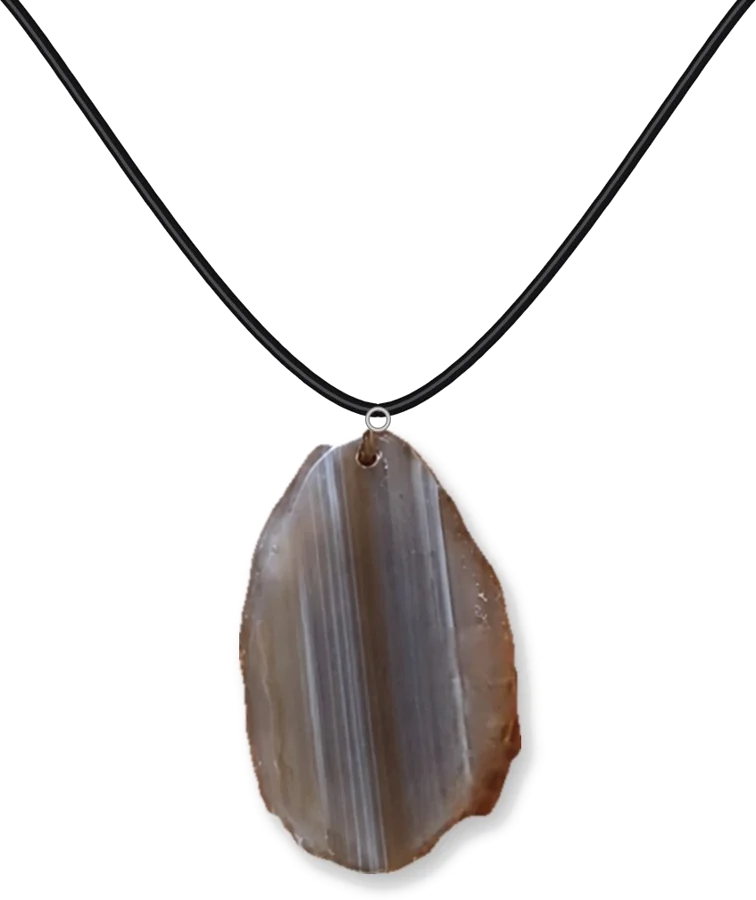
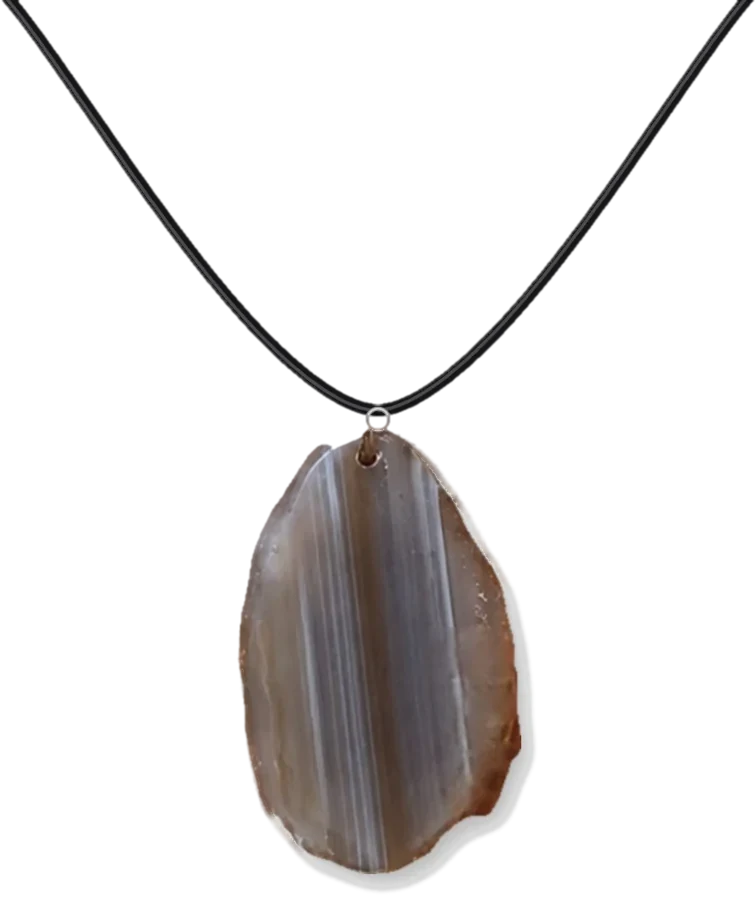
TIRRA: perchero en 3D real con espesor y luz (three.js)
Claude-Session: https://claude.ai/code/session_01FHVGg6LRu9CuR4S83BY3x6

diff --git a/patria/tirra.js b/patria/tirra.js
@@ -212,12 +212,13 @@
      de frente y empuja a las vecinas; cada percha se balancea según cómo se
      mueve. Clic (o segundo toque) la descuelga y se puede girar arrastrando. */
   var PIEZAS = [
-    { id: "col-tierra", img: "images/perch-col-tierra.webp" },
-    { id: "col-ocre",   img: "images/perch-col-ocre.webp" },
-    { id: "pec-cria",   img: "images/perch-pec-cria.webp?v=4", espalda: "images/perch-pec-cria-b.webp?v=4" },
-    { id: "cha-cruz",   img: "images/perch-cha-cruz.webp?v=2", espalda: "images/perch-cha-cruz-b.webp?v=2" },
-    { id: "col-pampa",  img: "images/perch-col-pampa.webp" },
-    { id: "col-greda",  img: "images/perch-col-greda.webp" }
+    // hookX / hookXb: dónde está el gancho en cada foto (0 = izquierda, 1 = derecha)
+    { id: "col-tierra", img: "images/perch-col-tierra.webp?v=5", hookX: 0.5 },
+    { id: "col-ocre",   img: "images/perch-col-ocre.webp?v=5", hookX: 0.5 },
+    { id: "pec-cria",   img: "images/perch-pec-cria.webp?v=5", espalda: "images/perch-pec-cria-b.webp?v=5", hookX: 0.483, hookXb: 0.487 },
+    { id: "cha-cruz",   img: "images/perch-cha-cruz.webp?v=5", espalda: "images/perch-cha-cruz-b.webp?v=5", hookX: 0.502, hookXb: 0.502 },
+    { id: "col-pampa",  img: "images/perch-col-pampa.webp?v=5", hookX: 0.5 },
+    { id: "col-greda",  img: "images/perch-col-greda.webp?v=5", hookX: 0.5 }
   ].filter(function (x) { return producto(x.id); });
   var riel = document.getElementById("riel");
   var perchero = { abierto: false, cerrar: function () {}, girar: function () {} };
@@ -233,6 +234,7 @@
 
     var slots = PIEZAS.map(function (x, i) {
       var p = producto(x.id), b = document.createElement("button");
+      x._collar = p.cat === "collares";
       b.type = "button"; b.className = "pieza" + (p.cat === "collares" ? " pieza--collar" : "");
       b.setAttribute("aria-label", p.nombre); b.tabIndex = i === 0 ? 0 : -1; b.dataset.i = i;
       b.innerHTML = '<span class="pieza__mece"><span class="pieza__giro"><img class="pieza__img" src="' + x.img + '" alt="" draggable="false"></span></span>';
@@ -244,6 +246,18 @@
       var d = document.createElement("button"); d.type = "button"; d.setAttribute("aria-label", "Ver " + producto(x.id).nombre);
       d.addEventListener("click", function () { elegir(i); }); puntos.appendChild(d);
     });
+
+    // 3D real (three.js) si hay WebGL y la página no se abrió como archivo suelto
+    var R3 = null, D3 = null;
+    if (window.Perchero3D && location.protocol !== "file:") {
+      var lienzo = document.createElement("canvas"); lienzo.className = "riel__3d"; lienzo.setAttribute("aria-hidden", "true");
+      riel.insertBefore(lienzo, riel.firstChild.nextSibling);
+      R3 = window.Perchero3D.riel(lienzo, PIEZAS.map(function (x) { return { img: x.img, espalda: x.espalda, hookX: x.hookX || 0.5, hookXb: x.hookXb || x.hookX || 0.5, collar: producto(x.id).cat === "collares" }; }));
+      if (R3) { R3.listo(function () { riel.classList.add("es-3d"); }); } else lienzo.remove();
+      var lienzoD = document.createElement("canvas"); lienzoD.className = "detalle__3d";
+      D3 = window.Perchero3D.detalle(lienzoD);
+      if (D3) { document.getElementById("detArrastre").appendChild(lienzoD); document.getElementById("detalle").classList.add("es-3d"); }
+    }
 
     function medir() {
       var w = riel.clientWidth;
@@ -257,6 +271,7 @@
       barra.style.top = (y - 3) + "px";
       barra.style.left = carrusel ? "-20px" : ""; barra.style.right = carrusel ? "-20px" : "";
       riel.style.height = Math.round(y + h + h * 0.04) + "px";
+      if (R3) R3.tam(w, Math.round(y + h + h * 0.04));
       slots.forEach(function (s) { s.el.style.width = bw + "px"; s.el.style.height = h + "px"; s.el.style.top = (y - Math.round(h * 0.012) - 2) + "px"; });
       if (puntos) puntos.hidden = !carrusel;
       objetivos(); 
@@ -288,6 +303,7 @@
       s.mece.style.transform = "rotate(" + (S.mece[i] || 0).toFixed(3) + "deg)";
       s.giro.style.transform = "perspective(" + PERSP + "px) rotateY(" + ang.toFixed(2) + "deg)";
       s.img.style.filter = "brightness(" + luz(ang).toFixed(3) + ") drop-shadow(0 18px 18px rgba(31,24,19,.18))";
+      if (R3) R3.poner(i, S.x[i] || 0, parseFloat(s.el.style.top) || 0, PIEZAS[i]._collar ? w * 0.7 : w, ang, S.mece[i] || 0);
     }
     function paso(ahora) {
       var dt = S.ult ? Math.min(0.034, (ahora - S.ult) / 1000) : 1 / 60; S.ult = ahora;
@@ -417,20 +433,21 @@
     /* pieza descolgada: vuela al frente y se gira arrastrando */
     var det = document.getElementById("detalle"), fig = document.getElementById("detFigura"), giroEl = document.getElementById("detGiro");
     var A = { v: 0, obj: 0, vel: 0, raf: 0, ult: 0, arr: false, x0: 0, a0: 0 }, ladoAct = "frente", cerrando = false, animIda = null;
+    function aplicarGiro() { if (D3) D3.girar(A.v); else giroEl.style.transform = "rotateY(" + A.v.toFixed(2) + "deg)"; }
     function girarBucle(ahora) {
       var dt = A.ult ? Math.min(0.034, (ahora - A.ult) / 1000) : 1 / 60; A.ult = ahora;
       A.vel += (-90 * (A.v - A.obj) - 2 * Math.sqrt(90) * 0.82 * A.vel) * dt; A.v += A.vel * dt;
-      giroEl.style.transform = "rotateY(" + A.v.toFixed(2) + "deg)";
-      if (Math.abs(A.v - A.obj) < 0.05 && Math.abs(A.vel) < 0.05) { A.v = A.obj; giroEl.style.transform = "rotateY(" + A.v + "deg)"; A.raf = 0; A.ult = 0; return; }
+      aplicarGiro();
+      if (Math.abs(A.v - A.obj) < 0.05 && Math.abs(A.vel) < 0.05) { A.v = A.obj; aplicarGiro(); A.raf = 0; A.ult = 0; return; }
       A.raf = requestAnimationFrame(girarBucle);
     }
     function girarA(lado) {
-      if (abierta == null || !PIEZAS[abierta].espalda) lado = "frente";
+      if (abierta == null || (!PIEZAS[abierta].espalda && !D3)) lado = "frente";
       var base = Math.round(A.v / 360) * 360; A.obj = base + (lado === "espalda" ? 180 : 0);
       if (Math.abs(A.obj - A.v) > 180) A.obj -= 360 * Math.sign(A.obj - A.v);
       ladoAct = lado;
       document.querySelectorAll("#detLados button").forEach(function (b) { b.setAttribute("aria-pressed", String(b.dataset.lado === lado)); });
-      if (REDUCIR) { A.v = A.obj; giroEl.style.transform = "rotateY(" + A.v + "deg)"; return; }
+      if (REDUCIR) { A.v = A.obj; aplicarGiro(); return; }
       if (!A.raf) A.raf = requestAnimationFrame(girarBucle);
     }
     function origen(i) { return slots[i].giro.getBoundingClientRect(); }
@@ -445,14 +462,16 @@
       document.getElementById("detPrecio").textContent = precio(p.precio);
       document.getElementById("detDesc").textContent = p.desc;
       document.getElementById("detLados").hidden = !x.espalda; document.getElementById("detPista").hidden = !x.espalda;
-      A.v = 0; A.obj = 0; A.vel = 0; giroEl.style.transform = "rotateY(0deg)"; ladoAct = "frente"; girarA("frente");
       det.hidden = false; document.body.classList.add("con-modal");
+      if (D3) { D3.mostrar({ img: x.img, espalda: x.espalda, hookX: x.hookX || 0.5, hookXb: x.hookXb || x.hookX || 0.5, collar: x._collar }); D3.tam(fig.clientWidth * 1.5, fig.clientHeight); }
+      A.v = 0; A.obj = 0; A.vel = 0; aplicarGiro(); ladoAct = "frente"; girarA("frente");
+      document.getElementById("detPista").hidden = !(x.espalda || D3);
       var de = origen(i);
       requestAnimationFrame(function () { det.classList.add("is-visible"); });
       if (!REDUCIR && de.width > 0 && fig.animate) {
         var a = fig.getBoundingClientRect(), esc = de.height / a.height;
         var dx = de.left + de.width / 2 - (a.left + a.width / 2), dy = de.top - a.top, alza = Math.min(90, Math.abs(dy) * 0.25 + 30);
-        oculta = i; slots[i].el.style.visibility = "hidden";
+        oculta = i; slots[i].el.style.visibility = "hidden"; if (R3) R3.ocultar(i, true);
         animIda = fig.animate([
           { transform: "translate(" + dx + "px," + dy + "px) scale(" + esc + ")" },
           { transform: "translate(" + dx * 0.4 + "px," + (dy * 0.4 - alza) + "px) scale(" + ((esc + 1) / 2 * 1.03) + ") rotate(" + (dx > 0 ? -2.5 : 2.5) + "deg)", offset: 0.5 },
@@ -467,7 +486,7 @@
       var i = abierta, hacia = origen(i);
       var fin = function () {
         det.hidden = true; document.body.classList.remove("con-modal");
-        slots[i].el.style.visibility = ""; oculta = null; abierta = null; perchero.abierto = false; cerrando = false;
+        slots[i].el.style.visibility = ""; if (R3) R3.ocultar(i, false); oculta = null; abierta = null; perchero.abierto = false; cerrando = false;
         empujar(i, (i % 2 ? 1 : -1) * 44); slots[i].el.focus({ preventScroll: true });
       };
       if (animIda) { animIda.cancel(); animIda = null; }
@@ -488,8 +507,8 @@
     document.getElementById("detAgregar").addEventListener("click", function () { var p = producto(PIEZAS[abierta].id); agregar(p.id, 1); avisar(p.nombre + " — agregado"); });
     document.getElementById("detFicha").addEventListener("click", function () { var p = producto(PIEZAS[abierta].id); cerrar(); setTimeout(function () { abrirFicha(p); }, 420); });
     var arr = document.getElementById("detArrastre");
-    arr.addEventListener("pointerdown", function (e) { if (!PIEZAS[abierta].espalda) return; A.arr = true; A.x0 = e.clientX; A.a0 = A.v; cancelAnimationFrame(A.raf); A.raf = 0; A.ult = 0; try { arr.setPointerCapture(e.pointerId); } catch (er) {} });
-    arr.addEventListener("pointermove", function (e) { if (!A.arr) return; A.v = clamp(A.a0 + (e.clientX - A.x0) * 0.45, A.a0 - 220, A.a0 + 220); giroEl.style.transform = "rotateY(" + A.v.toFixed(2) + "deg)"; });
+    arr.addEventListener("pointerdown", function (e) { if (!PIEZAS[abierta].espalda && !D3) return; A.arr = true; A.x0 = e.clientX; A.a0 = A.v; cancelAnimationFrame(A.raf); A.raf = 0; A.ult = 0; try { arr.setPointerCapture(e.pointerId); } catch (er) {} });
+    arr.addEventListener("pointermove", function (e) { if (!A.arr) return; A.v = A.a0 + (e.clientX - A.x0) * 0.5; aplicarGiro(); });
     arr.addEventListener("pointerup", function () { if (!A.arr) return; A.arr = false; var f = ((A.v % 360) + 360) % 360; girarA(f > 90 && f < 270 ? "espalda" : "frente"); });
     arr.addEventListener("pointercancel", function () { A.arr = false; girarA(ladoAct); });
 

diff --git a/patria/perchero3d.js b/patria/perchero3d.js
@@ -1,0 +1,154 @@
+/* =========================================================
+   TIRRA — perchero en 3D (three.js r128)
+   Cada pieza se arma con su foto de frente y de espalda:
+   - una malla curvada adelante (frente) y otra atrás (espalda),
+   - "rebanadas" intermedias que le dan el espesor del cuero,
+   - luces reales: al girar, un lado se ilumina y el otro se apaga.
+   El gancho queda en el origen, así la pieza gira y se balancea
+   desde donde cuelga. Si no hay WebGL, tirra.js usa las fotos planas.
+   ========================================================= */
+(function () {
+  "use strict";
+  var T = window.THREE;
+  if (!T) return;
+
+  var cacheTex = {};
+  function textura(src, alCargar) {
+    if (cacheTex[src]) {
+      var c = cacheTex[src];
+      if (c.listo) alCargar(c.tex); else c.espera.push(alCargar);
+      return;
+    }
+    var entrada = { tex: null, listo: false, espera: [alCargar] };
+    cacheTex[src] = entrada;
+    new T.TextureLoader().load(src, function (tex) {
+      tex.encoding = T.sRGBEncoding;
+      tex.anisotropy = 4;
+      entrada.tex = tex; entrada.listo = true;
+      entrada.espera.forEach(function (f) { f(tex); }); entrada.espera = [];
+    });
+  }
+
+  // plano curvado: el gancho (hookX, arriba) queda en el origen; ancho 1
+  function plano(aspecto, hookX, z, curva) {
+    var alto = 1 / aspecto, g = new T.PlaneGeometry(1, alto, 36, 54), p = g.attributes.position;
+    for (var k = 0; k < p.count; k++) {
+      var x = p.getX(k), y = p.getY(k);
+      var curv = -curva * x * x * 4;                 // los costados se van hacia atrás
+      p.setXYZ(k, x + 0.5 - hookX, y - alto / 2, z + curv * (z >= 0 ? 1 : 0.85));
+    }
+    g.computeVertexNormals();
+    return g;
+  }
+
+  function armarPieza(pz, alListo) {
+    var grupo = new T.Group();          // se balancea (rotación z)
+    var giro = new T.Group();           // gira (rotación y)
+    grupo.add(giro);
+    textura(pz.img, function (tf) {
+      var asp = tf.image.width / tf.image.height;
+      var prof = pz.collar ? 0.025 : 0.06, curva = pz.collar ? 0.02 : 0.11;
+      var matF = new T.MeshStandardMaterial({ map: tf, alphaTest: 0.5, roughness: 0.86, metalness: 0, side: T.FrontSide });
+      giro.add(new T.Mesh(plano(asp, pz.hookX, prof / 2, curva), matF));
+      // canto: rebanadas con la silueta, más oscuras (el corte del cuero)
+      var matC = new T.MeshStandardMaterial({ map: tf, alphaTest: 0.5, roughness: 0.95, color: 0x6a5546, side: T.DoubleSide });
+      var N = pz.collar ? 4 : 9;
+      for (var s = 1; s < N; s++) {
+        var z = prof / 2 - (prof * s) / N;
+        giro.add(new T.Mesh(plano(asp, pz.hookX, z, curva), matC));
+      }
+      textura(pz.espalda || pz.img, function (tb) {
+        var tbm = tb.clone(); tbm.needsUpdate = true;
+        tbm.wrapS = T.ClampToEdgeWrapping;
+        tbm.repeat.x = -1;
+        // espejado y alineado para que los ganchos de las dos fotos coincidan
+        var hb = pz.espalda ? pz.hookXb : pz.hookX;
+        tbm.offset.x = 1 + (hb - (1 - pz.hookX));
+        var matB = new T.MeshStandardMaterial({ map: tbm, alphaTest: 0.5, roughness: 0.86, side: T.BackSide });
+        giro.add(new T.Mesh(plano(asp, pz.hookX, -prof / 2, curva), matB));
+        if (alListo) alListo(asp);
+      });
+    });
+    return { grupo: grupo, giro: giro };
+  }
+
+  function escena() {
+    var sc = new T.Scene();
+    sc.add(new T.HemisphereLight(0xfff4e6, 0x3a2c22, 0.75));
+    var sol = new T.DirectionalLight(0xffffff, 0.95); sol.position.set(-0.6, 0.8, 1); sc.add(sol);
+    var rel = new T.DirectionalLight(0xffe2c4, 0.35); rel.position.set(1, 0.2, -0.8); sc.add(rel);
+    return sc;
+  }
+  function renderer(canvas) {
+    var r = new T.WebGLRenderer({ canvas: canvas, alpha: true, antialias: true, powerPreference: "low-power" });
+    r.setPixelRatio(Math.min(window.devicePixelRatio || 1, 2));
+    r.outputEncoding = T.sRGBEncoding;
+    r.setClearColor(0x000000, 0);
+    return r;
+  }
+  // cámara en perspectiva donde 1 unidad = 1 px en el plano z = 0
+  function camara(fov) { return new T.PerspectiveCamera(fov, 1, 1, 20000); }
+  function encuadrar(cam, w, h) {
+    cam.aspect = w / h;
+    cam.position.set(0, 0, (h / 2) / Math.tan((cam.fov * Math.PI) / 360));
+    cam.near = cam.position.z / 20; cam.far = cam.position.z * 4;
+    cam.updateProjectionMatrix();
+  }
+
+  /* ---------- riel ---------- */
+  function riel(canvas, piezas) {
+    var r;
+    try { r = renderer(canvas); } catch (e) { return null; }
+    var sc = escena(), cam = camara(26), w = 1, h = 1, pedido = false, cargadas = 0, alTodo = null;
+    var items = piezas.map(function (pz) {
+      var it = armarPieza(pz, function () { cargadas++; pedir(); if (cargadas === piezas.length && alTodo) alTodo(); });
+      sc.add(it.grupo); return it;
+    });
+    function pedir() { if (pedido) return; pedido = true; requestAnimationFrame(function () { pedido = false; try { r.render(sc, cam); } catch (e) {} }); }
+    return {
+      listo: function (f) { alTodo = f; if (cargadas === piezas.length) f(); },
+      tam: function (ancho, alto) { w = ancho; h = alto; r.setSize(ancho, alto, false); encuadrar(cam, ancho, alto); pedir(); },
+      poner: function (i, xpx, ypx, anchoPx, giroDeg, meceDeg) {
+        var it = items[i];
+        it.grupo.position.set(xpx - w / 2, h / 2 - ypx, 0);
+        it.grupo.scale.setScalar(anchoPx);
+        it.grupo.rotation.z = (-meceDeg * Math.PI) / 180;
+        it.giro.rotation.y = (giroDeg * Math.PI) / 180;
+        pedir();
+      },
+      ocultar: function (i, si) { items[i].grupo.visible = !si; pedir(); },
+      render: pedir
+    };
+  }
+
+  /* ---------- pieza descolgada ---------- */
+  function detalle(canvas) {
+    var r;
+    try { r = renderer(canvas); } catch (e) { return null; }
+    var sc = escena(), cam = camara(30), actual = null, w = 1, h = 1, pedido = false, cache = {};
+    function pedir() { if (pedido) return; pedido = true; requestAnimationFrame(function () { pedido = false; try { r.render(sc, cam); } catch (e) {} }); }
+    function ubicar() {
+      if (!actual) return;
+      var fig = w / 1.5;                       // el lienzo es 1,5 veces el ancho de la figura
+      var ancho = actual.collar ? fig * 0.76 : fig;
+      actual.it.grupo.scale.setScalar(ancho);
+      actual.it.grupo.position.set(0, h / 2 - h * 0.012, 0);
+    }
+    return {
+      mostrar: function (pz) {
+        if (actual) sc.remove(actual.it.grupo);
+        var c = cache[pz.img] || (cache[pz.img] = { it: armarPieza(pz, pedir), collar: pz.collar });
+        actual = c; sc.add(c.it.grupo); ubicar(); pedir();
+      },
+      tam: function (ancho, alto) { w = ancho; h = alto; r.setSize(ancho, alto, false); encuadrar(cam, ancho, alto); ubicar(); pedir(); },
+      girar: function (deg, mece) {
+        if (!actual) return;
+        actual.it.giro.rotation.y = (deg * Math.PI) / 180;
+        actual.it.grupo.rotation.z = ((mece || 0) * Math.PI) / 180;
+        pedir();
+      }
+    };
+  }
+
+  window.Perchero3D = { riel: riel, detalle: detalle };
+})();

diff --git a/patria/tirra.css b/patria/tirra.css
@@ -115,6 +115,10 @@ body.menu-abierto .header .logo__claro{ display:none; } body.menu-abierto .heade
 .pieza__giro{ position:absolute; inset:0; will-change:transform; }
 .pieza__img{ position:absolute; left:0; top:0; width:100%; height:auto; pointer-events:none; -webkit-user-drag:none; filter:drop-shadow(0 18px 18px rgba(31,24,19,.18)); }
 .pieza--collar .pieza__img{ left:15%; width:70%; }
+.riel__3d{ position:absolute; left:0; top:0; width:100%; height:100%; pointer-events:none; z-index:1; filter:drop-shadow(0 20px 18px rgba(31,24,19,.16)); }
+.riel.es-3d .pieza__img{ opacity:0; }
+.detalle__3d{ position:absolute; left:-25%; top:0; width:150%; height:100%; pointer-events:none; filter:drop-shadow(0 28px 26px rgba(31,24,19,.2)); }
+.detalle.es-3d .detalle__giro{ display:none; }
 .riel__puntos{ display:flex; justify-content:center; gap:6px; margin-top:4px; }
 .riel__puntos[hidden]{ display:none; }
 .riel__puntos button{ width:6px; height:6px; border-radius:6px; background:rgba(31,24,19,.22); transition:width .3s var(--ease), background .3s; }

diff --git a/patria/index.html b/patria/index.html
@@ -14,7 +14,7 @@
 <link rel="preconnect" href="https://fonts.googleapis.com">
 <link rel="preconnect" href="https://fonts.gstatic.com" crossorigin>
 <link href="https://fonts.googleapis.com/css2?family=Inter:wght@400;700&display=swap" rel="stylesheet">
-<link rel="stylesheet" href="tirra.css?v=7">
+<link rel="stylesheet" href="tirra.css?v=8">
 </head>
 <body>
 
@@ -280,6 +280,8 @@
 <script src="https://cdnjs.cloudflare.com/ajax/libs/gsap/3.12.5/gsap.min.js"></script>
 <script src="https://cdnjs.cloudflare.com/ajax/libs/gsap/3.12.5/ScrollTrigger.min.js"></script>
 <script src="productos.js?v=25"></script>
-<script src="tirra.js?v=8"></script>
+<script src="https://cdnjs.cloudflare.com/ajax/libs/three.js/r128/three.min.js"></script>
+<script src="perchero3d.js?v=2"></script>
+<script src="tirra.js?v=10"></script>
 </body>
 </html>

diff --git a/notas/patria.md b/notas/patria.md
@@ -102,3 +102,5 @@ la página queda usable sin animaciones.
 - Reescrito en JS común (la web no usa React), tomando el comportamiento del componente "ClothingRailHero" que pasó Facundo como referencia: piezas de perfil (−70°) que giran de frente al pasar el mouse, resortes que empujan a las vecinas, balanceo según la aceleración, perchas que se arrastran por la barra, carrusel con deslizar en celular y pieza "descolgada" que vuela al frente y se gira arrastrando (frente/espalda).
 - Código: bloque "el perchero" en `tirra.js` (lista `PIEZAS`), estilos `.riel`, `.pieza`, `.detalle` en `tirra.css`.
 - Fotos: `images/perch-*.webp` con la percha incluida y el gancho arriba de todo (las de la Pechera Cría las hizo Facundo; frente = bolsillo cebra).
+- **3D real (three.js r128, `perchero3d.js`)**: cada pieza es una malla curvada con la foto de frente adelante, la de espalda atrás (espejada y alineada por el gancho) y "rebanadas" intermedias que dan el espesor del cuero; luces reales. El riel usa la misma física y dibuja en un `<canvas>`; la pieza descolgada gira 360°. Si la página se abre como archivo suelto (file://) o no hay WebGL, se ven las fotos planas de antes.
+- Fotos del perchero limpiadas: sin halo blanco ni sombras grises de la pared.
